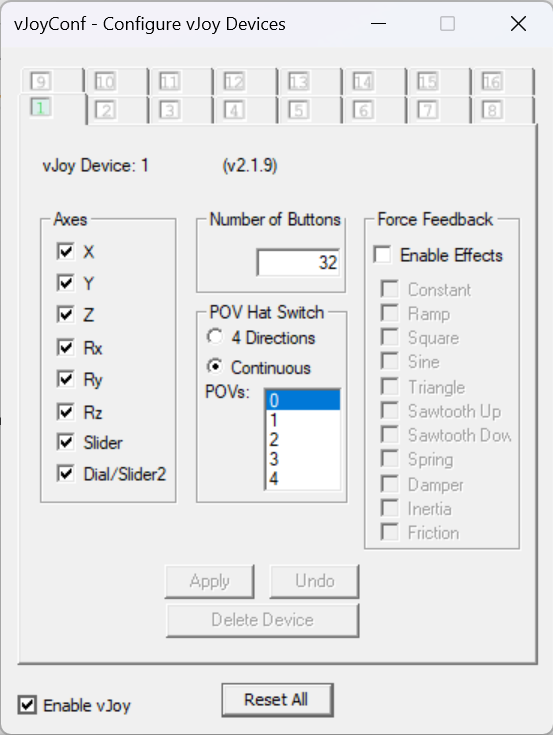
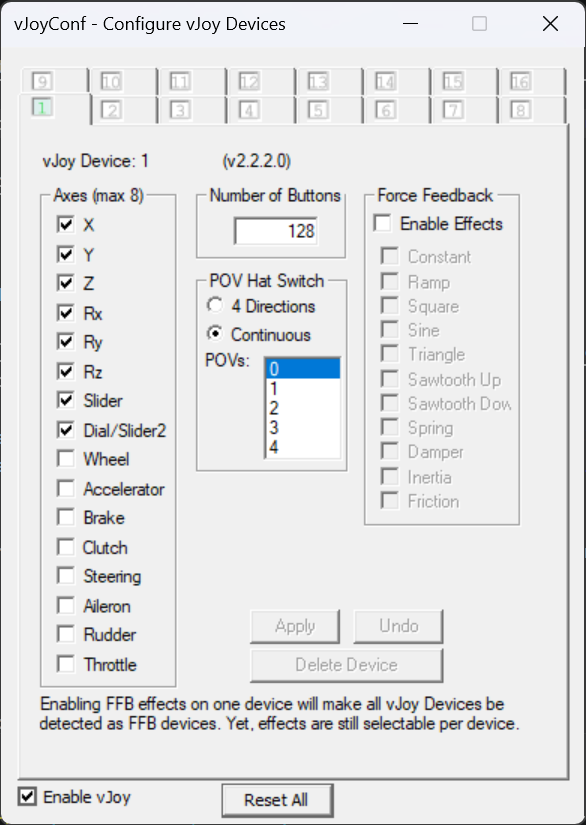
Doc updates

diff --git a/docs/stylesheets/extra.css b/docs/stylesheets/extra.css
@@ -11,3 +11,12 @@ h5 + p,
 h6 + p {
   text-indent: 0;
 }
+
+.md-typeset .tabbed-set {
+  border: 0.5px solid darkslategray;
+}
+
+.md-typeset .tabbed-content {
+  padding-left: 1rem;
+  padding-right: 1rem;
+}

diff --git a/docs/setup-guide.md b/docs/setup-guide.md
@@ -1,0 +1,100 @@
+# Setup guide
+
+!!! danger "Using FFB devices for anything other than their intended purpose may result in damage or injury"
+    The authors of Bonus FFB accept no liability for any loss or damage including, without limitation, indirect or consequential loss or damage arising out of or in connection with the use of the software. Use Bonus FFB at your own risk.
+
+## 1. Install vJoy
+
+Install [vJoy v2.2.2.0](https://github.com/BrunnerInnovation/vJoy/releases/tag/v2.2.2.0).
+
+Run the "Configure vJoy" application. Set up at least one virtual device with a minimum of 32 buttons, and click the "Enable vJoy" checkbox:
+
+![vJoy config](images/vjoy-config.png){: style="height:551;width:416px"}
+
+## 2. Install telemetry plugins
+
+### American Truck Simulator/Euro Truck Simulator 2
+
+Install [RenCloud's scs-sdk-plugin](https://github.com/RenCloud/scs-sdk-plugin/releases) DLL to the `bin\win_x64\plugins` folder of your ATS and ETS2 installations. These are the default locations when using Steam:
+
+* `C:\Program Files (x86)\Steam\steamapps\common\American Truck Simulator\bin\win_x64\plugins\`
+* `C:\Program Files (x86)\Steam\steamapps\common\Euro Truck Simulator 2\bin\win_x64\plugins\`
+
+??? tip "When installed correctly, ATS/ETS2 will start with a notice that the SDK has been activated."
+    Unfortunately this message cannot be deactived, you will have to press OK each time the game is launched.
+
+## 3. Configure your FFB joystick
+
+=== "MOZA AB9/AB6"
+
+    ??? warning "You must set `Force Feedback Mode` to `DirectInput`"
+        If `Force Feedback Mode` is incorrect, Bonus FFB will silently fail to send to force feedback commands to the base, resulting a 'dead stick' effect.
+
+    ??? warning "You must set `Base Force Model Selection` to `Flight Base`"
+        Do NOT use the `Shifter` mode. The `Shifter` mode is for Moza's built-in shifter app and overrides Bonus FFB.
+
+    <h3>MOZA Cockpit vs MOZA Pithouse</h3>
+
+    Download and install [MOZA Cockpit](https://support.mozaracing.com/en/support/solutions/articles/70000666515-moza-cockpit-download) if you don't already have it. These instructions apply to settings in MOZA Cockpit, which is distinct from MOZA Pithouse.
+
+    <h3>Required MOZA Cockpit settings</h3>
+
+    Under Basic Settings, change these settings:
+
+    * `Force Feedback Mode` to `DirectInput`
+    * `Maximum Torque Output` to `100%`
+    * `Overall Force Feedback Intensity` to `100%`
+    * `Spring` to `0`
+    * `Game Force Feedback Gain` to `100%`
+
+    `Damper`, `Inertia`, and `Friction` can be set according to personal preference. 20% strength is recommended as a minimum for safety reasons.
+
+    Under Special, change these settings:
+
+    * `Base Force Model Selection` to `Flight Base`
+
+    Close and fully exit MOZA Cockpit after configuring these settings, to avoid any interference from MOZA's built-in effects, and to avoid conflicts with MOZA Pithouse.
+
+=== "Other FFB Joysticks"
+
+    In theory, Bonus FFB is compatible with any powerful FFB joystick that...
+
+    1. Supports DirectInput, which should be all of them
+    2. Supports disabling centering spring effects
+
+    This should include VPForce Rhino, FFBeast, etc., but has not been tested. If you have one of these devices and can help provide configuration instructions, please reach out via [Github :fontawesome-brands-github:](https://github.com/kgmonteith/BonusFFB/issues) or the #bonus-ffb channel on the [HOTAS Discord :fontawesome-brands-discord:](https://discord.gg/hotas).
+
+## 4. Install and configure Bonus FFB
+
+Download and run the latest [Bonus FFB installer](https://github.com/kgmonteith/BonusFFB/releases).
+
+Configure your input and output devices in the `Settings > Configure input/output devices` menu. The ⚙️ button is shown if additional devices need to be configured to run the current mode.
+
+* A force-feedback enabled joystick and vJoy are required for all Bonus FFB modes
+* Pedals are required for the heavy truck and H-shifter modes
+* Range and splitter switches are required for the heavy truck mode
+* A shift lock device is optionally used by the PRNDL mode
+
+Bonus FFB installs as a single application with a few modes:
+
+* [Heavy truck shifter](heavytruck.md) for simulating heavy duty truck transmissions in ATS/ETS2
+* [H-pattern shifter](hshifter.md) for simulating manual transmissions
+* ["PRNDL"-style shifter](prndl.md) for simulating automatic transmissions
+* [Push-pull hand control](pphc.md), simulating an assistive driving device for operating a vehicle's throttle and brakes with a single hand lever
+* A simple [handbrake](handbrake.md) lever
+
+Please read the mode's guide for app-specific configuration, options, and features.
+
+If your FFB joystick and other devices are correctly detected and configured, you can start the app by pressing the ▶️ button.
+
+If you'd like other modes or have ideas for Bonus FFB, drop a message in the #bonus-ffb channel on the [HOTAS Discord :fontawesome-brands-discord:](https://discord.gg/hotas) or [Github :fontawesome-brands-github:](https://github.com/kgmonteith/BonusFFB/issues).
+
+## Troubleshooting
+
+If the joystick does not behave as expected while Bonus FFB is running, close and exit Steam. If it suddenly starts working properly, the problem is actually caused by an [incompatibility between Steam and vJoy](https://github.com/kgmonteith/BonusFFB/issues/65).
+
+To fix it, download and install [HidHide](https://github.com/nefarius/HidHide/releases). You can use it to mask vJoy from Steam entirely. This will no effect on games that use vJoy, it only blocks the Steam application itself. Here's an example HidHide configuration:
+
+![HidHide applications blacklist](images/hidhide-applications.png)
+
+![HidHide device list](images/hidhide-devices.png)

diff --git a/docs/heavytruck.md b/docs/heavytruck.md
@@ -1,10 +1,10 @@
 # Heavy truck shifter
 
-The heavy truck mode simulates an Eaton-Fuller 18-speed heavy truck transmission. It was designed and tuned based on feedback from truckers with 30 years of experience driving manual transmission trucks. Tremendous thanks to Kyle Darling for the insights that made this mode possible, and to Exius86 and amagawd for their testing and feedback.
+The heavy truck mode was originally designed to simulate an Eaton-Fuller 18-speed heavy truck transmission. It was designed and tuned based on feedback from truckers with 30 years of experience driving manual transmission trucks. Tremendous thanks to Kyle Darling for the insights that made this mode possible, and to Exius86 and amagawd for their testing and feedback.
 
-The heavy truck mode was built specifically for American Truck Simulator. [Setting up telemetry](getting-started.md#2-install-telemetry-plugins) is required, it will not work without it.
+All stock shifter layouts in ATS and ETS2 are now supported, plus a special bonus ZF-16 Double-H slot pattern.
 
-The heavy truck mode features rev-matching effects to enable tactile float shifting, configurable slot throws to support joystick extensions, Eaton-Fuller specific slot layouts, throttle-on shifting, and more.
+The heavy truck mode features rev-matching effects to enable tactile float shifting, customizable slot patterns, throttle-on shifting, and more.
 
 ![Heavy truck mode](images/heavytruck-screenshot.png) 
 
@@ -17,7 +17,7 @@ The heavy truck mode features rev-matching effects to enable tactile float shift
 
 > *"Most sims treat truck transmissions like a heavy car shifter (spring + click). That’s wrong. An Eaton 18-speed is an industrial control interface. It is viscous, unforgiving, and communicative. To mimic an Eaton RT-18, the FFB needs to prioritize friction and texture over spring force. I need to feel the torque clamping the stick, the 'saw blade' effect of the gear teeth when I miss a shift, and the physical 'clunk' of the range change air-piston transferring through the handle."*
 
-The heavy truck mode implements effects and features found in American heavy-duty dog box truck transmissions. It's still a work in progress, and [feedback](https://github.com/kgmonteith/BonusFFB/issues) on the mode is appreciated.
+The heavy truck mode implements effects and features found in American heavy-duty dog box truck transmissions. It's still a work in progress, and feedback is appreciated.
 
 !!! Warning
     The heavy truck mode relies on ATS/ETS2 telemetry to function. It will not behave correctly without it, or when the game is paused or not running. This is expected behavior.
@@ -30,17 +30,43 @@ The "Rev matching" indicator provides a visual cue of when float shifting is per
 
 You can tune the maximum allowed RPM delta for float shifting in the FFB effect settings, making floating shifts easier or harder.
 
+### Customizable slot patterns
+
+The heavy truck mode includes slot patterns for all standard shifter layouts in ATS and ETS2&mdash;Eaton-Fuller, Scania, Volvo, and ZF. Blocked slots are actually blocked, and you can quickly change between different patterns. No more dead-sticking into the wrong slot!
+
+<div class="grid cards" markdown>
+
+- <figure markdown="span">
+    ![Image title](images/heavytruck-scania-12.png){ width="300" }
+    <figcaption>Scania 12</figcaption>
+  </figure>
+- <figure markdown="span">
+    ![Image title](images/heavytruck-volvo-12.png){ width="300" }
+    <figcaption>Volvo 12</figcaption>
+  </figure>
+- <figure markdown="span">
+    ![Image title](images/heavytruck-zf-12.png){ width="300" }
+    <figcaption>ZF 12</figcaption>
+  </figure>
+- <figure markdown="span">
+    ![Image title](images/heavytruck-zf-16-doubleh.png){ width="300" }
+    <figcaption>ZF 16 Double-H</figcaption>
+  </figure>
+</div>
+
+To support stick extensions, the heavy truck mode has configurable slot depths, pattern width, and pattern alignment.
+
+There's also an extra-special, old-school [ZF-16 Double-H pattern](https://www.scribd.com/document/421805601/245068800-ZF-Double-H-Shift-Pattern-pdf), fully compatible with the ZF-16 shifter layout in ETS2. The range switch is not used; instead, the range changed by [bumping the stick between the two patterns](https://www.youtube.com/watch?v=ggJv-Rj5_dA).
+
 ### Torque lock
 
 When a real truck is in gear and the transmission is loaded (e.g., the throttle is pressed), it's not physically possible to move the stick out of gear. The heavy truck mode simulates this effect by applying a heavy counter-force if the stick is pushed towards neutral while in gear and throttle is applied. The mode uses telemetry values to set the effect, so it also applies when using cruise control. A lighter amount of torque lock is also applied any time the transmission is in gear and the wheels are moving.
 
-### Configurable slot patterns
-
-To support stick extensions, the heavy truck mode has configurable slot depths and slot channel positioning. The default slot pattern matches that of a real RT-18 and is intended to be used with an extension, but is also comfortable with direct-mounted truck shifter. Preset buttons are provided for the default Eaton Fuller pattern, and a pattern that utilizes the full range of your joystick base.
-
 ### The left-slot "wall"
 
 On an RT-18 transmission, the regular drive gears are available in the center and right slots. The "low" and "reverse" gears are on the left slot. To protect from mis-shifts, or maybe even for mechanical reasons, a strong "wall" of force needs to be overcome in order to move the shifter into the left slot.
+
+The wall effect is also applied on other slot patterns with a similar reverse/low layout.
 
 ### Throttle-on shifting
 
@@ -50,44 +76,48 @@ Bonus FFB adds support for throttle-on shifting by mapping your pedal axes onto 
 
 ## Game configuration
 
-The heavy truck mode sends vJoy button presses when gears are engaged. Bind the in-game gear slots as you would with a hardware H-pattern shifter, by walking through the gears slot-by-slot in the game control settings. The input device will show up as the vJoy device you selected in the heavy truck mode's input/output settings.
-
-!!! Note
-    If you have difficulty binding buttons while in heavy truck mode, bind them while using [H-shifter mode](hshifter.md) instead. The same button numbers are used by both modes.
-
 ### Basic game settings
 
-Install the [required ATS/ETS2 telemetry plugin](getting-started.md#2-install-telemetry-plugins), then set these values in the "Controls" menu.
+First, install the [required ATS/ETS2 telemetry plugin](setup-guide.md#2-install-telemetry-plugins).
 
-* In the `Input Types` list, add the vJoy Device
+Start the heavy truck mode, then set these values in the "Controls" menu:
+
+* In the `Input Types` list, add the vJoy Device. In this example, vJoy Device is the fourth entry, so it will show up as Joy 4 in the control bindings.
 ![ATS vJoy](images/ats-vjoy.png) 
 * Set `Transmission` to `H-Shifter`
 * Set `Shifter layout` to match the vehicle's transmission, e.g., Eaton-Fuller 18 speed
 * Set `Shifter layout behavior` to `Advanced`
-* Set `Shifter Positions` 1-6 to the vJoy Device buttons 0-5, corresponding to the H-Shifter slots
+* Set `Shifter Positions` 1-6 to the vJoy Device buttons 0-5, corresponding to the shifter slots
+    * Simply walk the shifter through the slots to bind each gear while Bonus FFB is running, as you would a hardware shifter.
+    * If you have trouble binding buttons while in heavy truck mode, bind them using [H-shifter mode](hshifter.md) instead. The same button numbers are used by both modes.
     * Ignore the `Reverse` position, it's not used when the `Shifter layout` matches a real transmission
-    
+* Set the `Shifter layout` to match the transmission of your truck. In Bonus FFB, choose the matching slot pattern in the slot pattern settings tab.
+    * ⚠️ Remember to change this setting when you change trucks or transmissions!
+
 ![ATS Hshifter settings](images/ats-hshifter.png)
-(Your device number will be different than in the above screenshot)
 
-### Advanced game settings for throttle-on shifting
+### Advanced game settings
 
-Throttle-on shifting in the heavy truck mode works by duplicating your pedals' axis outputs on corresponding vJoy virtual axes, then tweaking the values when a throttle-on float shift should be allowed in a real truck.
+Some advanced features, like throttle-on shifting and the ZF-16 Double-H pattern, mode work by duplicating your devices' outputs on corresponding vJoy outputs, and tweaking the values when appropriate.
 
-To use throttle-on shifting, you will need to bind the vJoy axes to the throttle, brake, and clutch axes in the game's control settings. Doing that is tricky, since the game will likely default to using your physical pedals' axes when using the in-game controls configuration menu.
+To use these features, you will need to bind the vJoy axes and buttons in the game's control settings. To do so, remove your physical pedals and range/splitter as an input in the game's "Controls" menu by selecting them in the "Input type" list and choosing "None". Then rebind the below axes and buttons (while  Bonus FFB is running) as you would normally, by pressing the corresponding axis or button. This will cause the game to recognize the vJoy device as the control source.
 
-To bind the vJoy virtual axes, there are two options:
+* Bind the range and splitter buttons as shown in the screenshot above.
+* Bind the acceleration, brake, and clutch axes by pressing as shown below.
 
-1. Remove your physical pedals as an input in the game's "Controls" menu by selecting them in the "Input type" list and choosing "None". Then rebind the pedal axes as you would normally. This will cause the game to recognize the vJoy axes as the pedal axes.
-    - This will work if your pedals are connected to your steering wheel, just be sure to add your steering wheel back to the "Input type" list after binding the pedal axes.
-2. Use [HidHide](https://docs.nefarius.at/projects/HidHide/) to mask your physical pedals from the game. Consult the [HidHide documentation](https://docs.nefarius.at/projects/HidHide/Simple-Setup-Guide/#setting-up-hidhide-quick-guide) for instructions. You only need to mask your pedals when binding the axes, they can be unmasked afterward.
+(This will work even if your pedals are connected to your steering wheel, just be sure to add your steering wheel back to the "Input type" list after binding the pedal axes.)
+
+![ATS virtual pedal axes](images/ats-pedals.png)
 
 ## Settings descriptions
 
 ### Slot pattern settings
 
-- Changes to the slot depth and positions are reflected on the joystick map, consult it after making a change.
-- **<span id="button-zone-depth">Button zone depth:</span>** Adjusts how far into the slot you have to push the stick to trigger the button press. Increasing this value means you will need to push the stick farther into the slot to trigger the shift button press. Tune it such that float shifting only occurs when revs are matched and the stick is allowed to move sufficiently far into the slot.
+Changes to the slot pattern, position, slot depth, and width are reflected on the joystick map, consult it after making a change.
+
+- **Slot pattern**: Select the pattern that matches your truck's transmission, *and* the shifter layout in the game's controls menu.
+- **<span id="button-zone-depth">Grind zone depth:</span>** Adjusts how far into the slot you have to push the stick to trigger the transmission grinding effect, shown with a red line when the markers are enabled. The grind zone should always be between the button zone and the neutral slot.
+- **<span id="button-zone-depth">Button zone depth:</span>** Adjusts how far into the slot you have to push the stick to trigger the button press, shown with a blue line when markers are enabled. Increasing this value means you will need to push the stick farther into the slot to trigger the shift button press. Tune it such that float shifting only occurs when revs are matched and the stick is allowed to move sufficiently far into the slot, about 20% higher than the grind zone value is recommended.
 
 ### Force feedback effect settings
 
@@ -97,7 +127,7 @@ To bind the vJoy virtual axes, there are two options:
     - **<span id="friction">Friction:</span>** Adds constant resistance, regardless of joystick motion
     !!! Warning
         For Moza bases, these values are *added* to the corresponding values in Moza Cockpit, they do not override them.
-    !!! Note
+    !!! Info
         New Eaton-Fuller transmissions tend to feel "weighty", increase these settings to simulate a new transmission. Older transmissions tend to feel "looser" with a stick that's easier to move.
 - **<span id="gate-latch-friction">Gate latch friction:</span>** A friction effect that plays when passing through a slot gate latch, simulating the shift fork engaging the synchronizer collar
     - This value is added to the constant friction resistance&mdash;e.g., 30% constant friction + 40% gate latch friction results in 70% total friction for the effect.

diff --git a/docs/hshifter.md b/docs/hshifter.md
@@ -1,6 +1,9 @@
 # H-Shifter
 
-This mode simulates a basic H-pattern shifter with lock-out, gear grinding, and simplified float shifting. Configuring clutch and throttle pedals axes in the `Input/output settings` tab is required. Float shifting requires [setting up game telemetry](getting-started.md#2-install-telemetry-plugins), currently only supported for ATS/ETS2. However, the [heavy truck mode](heavytruck.md) is recommended for a more immersive experience.
+!!! Warning
+    The H-shifter mode is overdue for an update. For ATS/ETS2, [heavy truck mode](heavytruck.md) is strongly recommended.
+
+This mode simulates a basic H-pattern shifter with lock-out, gear grinding, and simplified float shifting. Configuring clutch and throttle pedals axes in the `Input/output settings` tab is required. Float shifting requires [setting up game telemetry](setup-guide.md#2-install-telemetry-plugins), currently only supported for ATS/ETS2. However, the [heavy truck mode](heavytruck.md) is recommended for a more immersive experience.
 
 The H-shifter mode is best suited to casual driving games, such truck, bus, and taxi sims. Depending on the strength of your FFB joystick, it's easily possible to overcome the locking, grinding, and channel-keeping force effects. Remember to play along and not push through these effects. If you want something stronger and more precise, consider a purpose-built device like the [Bash Pro](https://mvhstudios.co.uk/products/bash-pro).
 

diff --git a/docs/index.md b/docs/index.md
@@ -11,7 +11,7 @@ Bonus FFB is free, open-source software that simulates these devices using force
 * [Simple handbrakes](handbrake.md)
 * Got an idea? [Make a suggestion :fontawesome-brands-github:](https://github.com/kgmonteith/BonusFFB/issues)
 
-Follow the [Getting Started](getting-started.md) guide for complete installations instructions.
+Follow the [setup guide](setup-guide.md) for complete installation and configuration instructions.
 
 ## Demo videos
 
@@ -24,7 +24,7 @@ Follow the [Getting Started](getting-started.md) guide for complete installation
 
 ## Supported devices
 
-* [MOZA AB9 FFB Base](device-settings.md#moza-ab9)
+* [MOZA AB9 FFB Base](setup-guide.md#moza-ab9ab6)
 
 !!! tip "Help us support more devices"
     Bonus FFB *should* work with any FFB joystick that supports DirectInput. If you own a VPForce Rhino, FFBeast, or other powerful FFB joystick and would like to test Bonus FFB, please get in touch in #bonus-ffb on the [HOTAS Discord :fontawesome-brands-discord:](https://discord.gg/hotas) or [Github :fontawesome-brands-github:](https://github.com/kgmonteith/Bonus-FFB/issues).